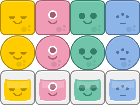
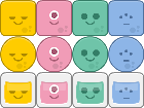
update graphics, improve drag & release

diff --git a/07 Angry Birds/Angry Birds — Final/README.md b/07 Angry Birds/Angry Birds — Final/README.md
@@ -7,3 +7,19 @@ Finalize "Angry Birds" demo.
 - add audio files
 
 - add a level with a different structure
+
+- modify graphhics
+
+  - resize the aliens to occupy a square of 36x36
+
+  - include additional background
+
+  - include ground matching the background variety
+
+- render a row of tiles at the bottom of the screen
+
+- set angular damping to avoid having the alien roll indefinitely
+
+- show launch area with a semi-transparent black circle, and only if the game is not in the process of updating
+
+- limit launch area to avoid launching the alien past the obstacles
